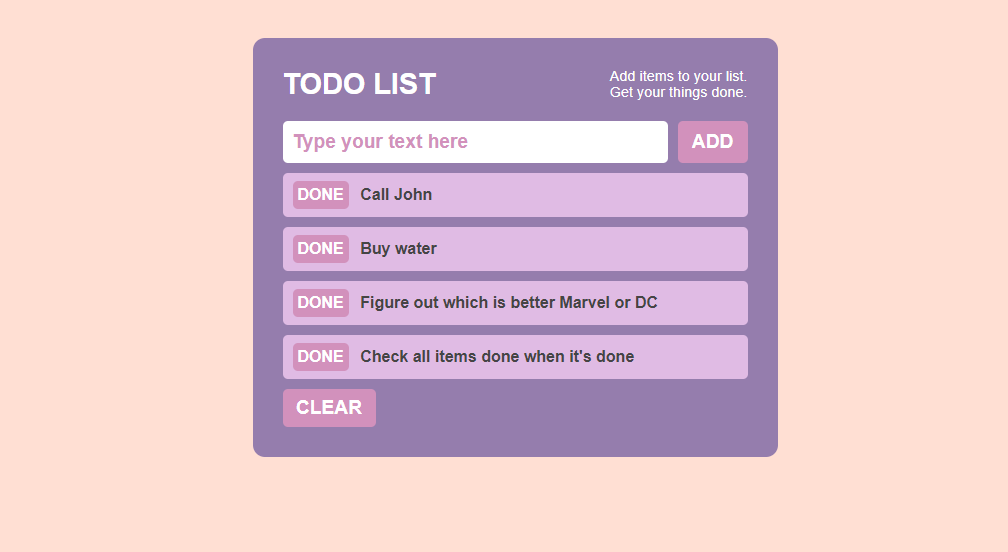
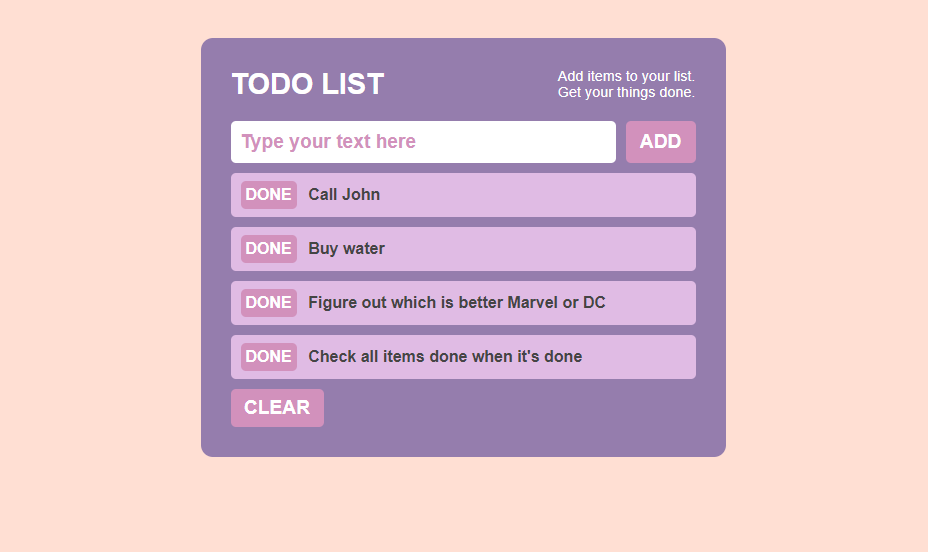
added mobile version

Changed region(s): [[0.2188, 0.0616, 0.6562, 0.8315], [0.5938, 0.0616, 0.7812, 0.8315]]

diff --git a/index.html b/index.html
@@ -16,18 +16,18 @@
             </div>
             <nav>
                 <ul id="navLinks">
-                    <li class="nav-item">
-                        <a class="nav-link" href="#myWorks">PORTFOLIO</a>
-                    </li>
                     <li>
                         <a class="nav-link" href="#creerRoadmap">CAREER MAP</a>
+                    </li>
+                    <li class="nav-item">
+                        <a class="nav-link" href="#myWorks">PORTFOLIO</a>
                     </li>
                 </ul>
             </nav>
             <div class="item-header align-right">
                 <h4>bohdanhomon93@gmail.com</h4>
                 <h4>Valencia, Spain</h4>
-                <h4>29 years</h4>
+                <h4>29 years old</h4>
             </div>    
         </div>
     </header>
@@ -106,7 +106,7 @@
             </div>
             <div class="item roadmap">
                 <h2>2023</h2>
-                <p>Planning to grow as Frotend developer</p>
+                <p>Planning to grow as Frontend developer</p>
                 <p>Planning to create Educational web platform for teachers providing online lessons</p>
             </div>
         </div>

diff --git a/style.css b/style.css
@@ -55,6 +55,7 @@ li {
 
 .header-block {
     display: flex;
+    flex-direction: row;
     justify-content: space-between;
     align-items: center;
     padding: 20px 0;
@@ -220,4 +221,62 @@ li {
 
 .todo-list {
     background-image: url('img/todolist_vanillajs.png');
+}
+
+@media (max-width: 970px) {
+
+    #header {
+        height: 210px;
+    }
+
+    .header-block {
+        flex-direction: column;
+        justify-content: center;
+    }
+
+    #navLinks {
+        margin: 10px 0;
+        font-size: 0.9em;
+    }
+
+    .item-header {
+        text-align: center;
+    }
+
+    .item-header h1 {
+        font-size: 1.4em;
+    }
+
+    .item-header h2 {
+        font-size: 1em;
+    }
+
+    .container {
+        margin: 0 20px;
+    }
+
+    .section-title {
+        text-align: center;
+        font-size: 1.4em;
+    }
+
+    #creerRoadmap {
+        margin: 3px 0;
+    }
+
+    #creerRoadmap::before {
+        content: '';
+        display: block;
+        height: 210px;
+    }
+
+    .item-portfolio {
+        width: 100%;
+        height: auto;
+        min-height: 300px;
+    }
+
+    #portfolio {
+        justify-content: center;
+    }
 }
